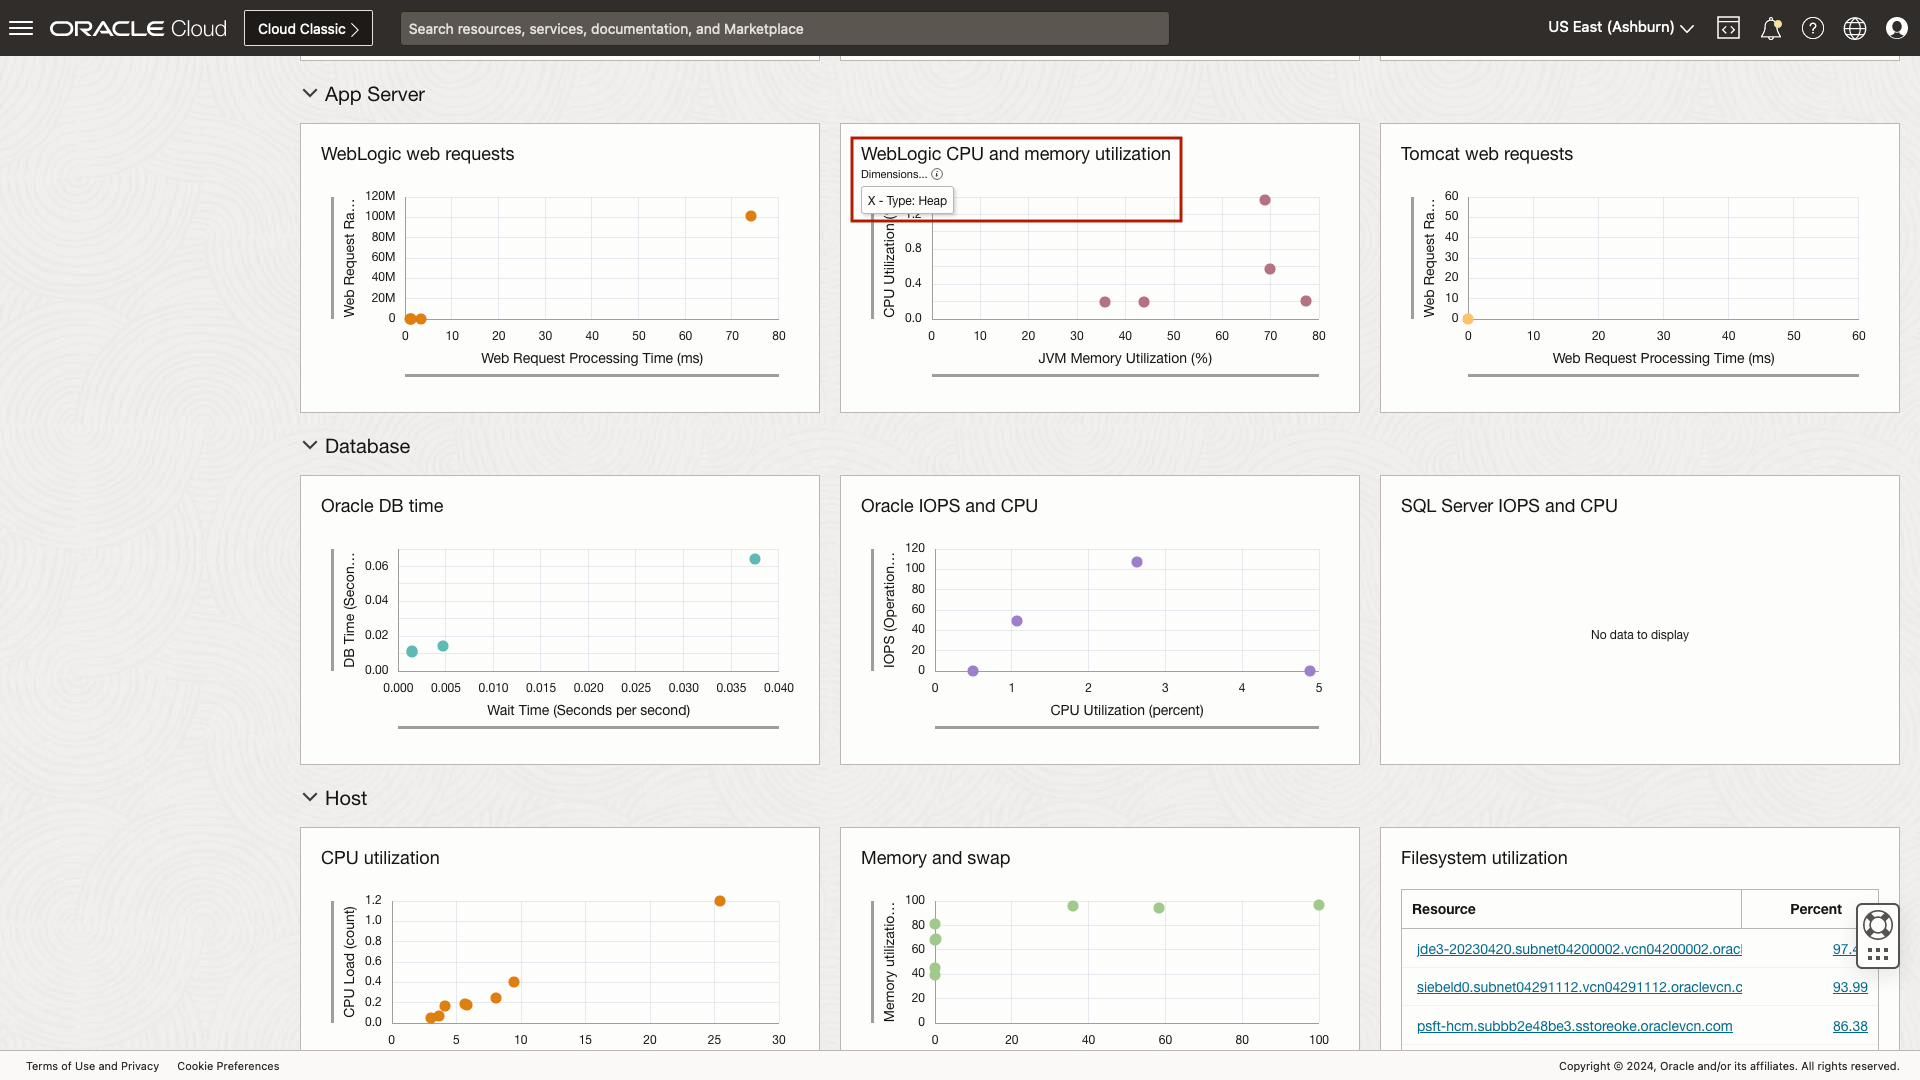
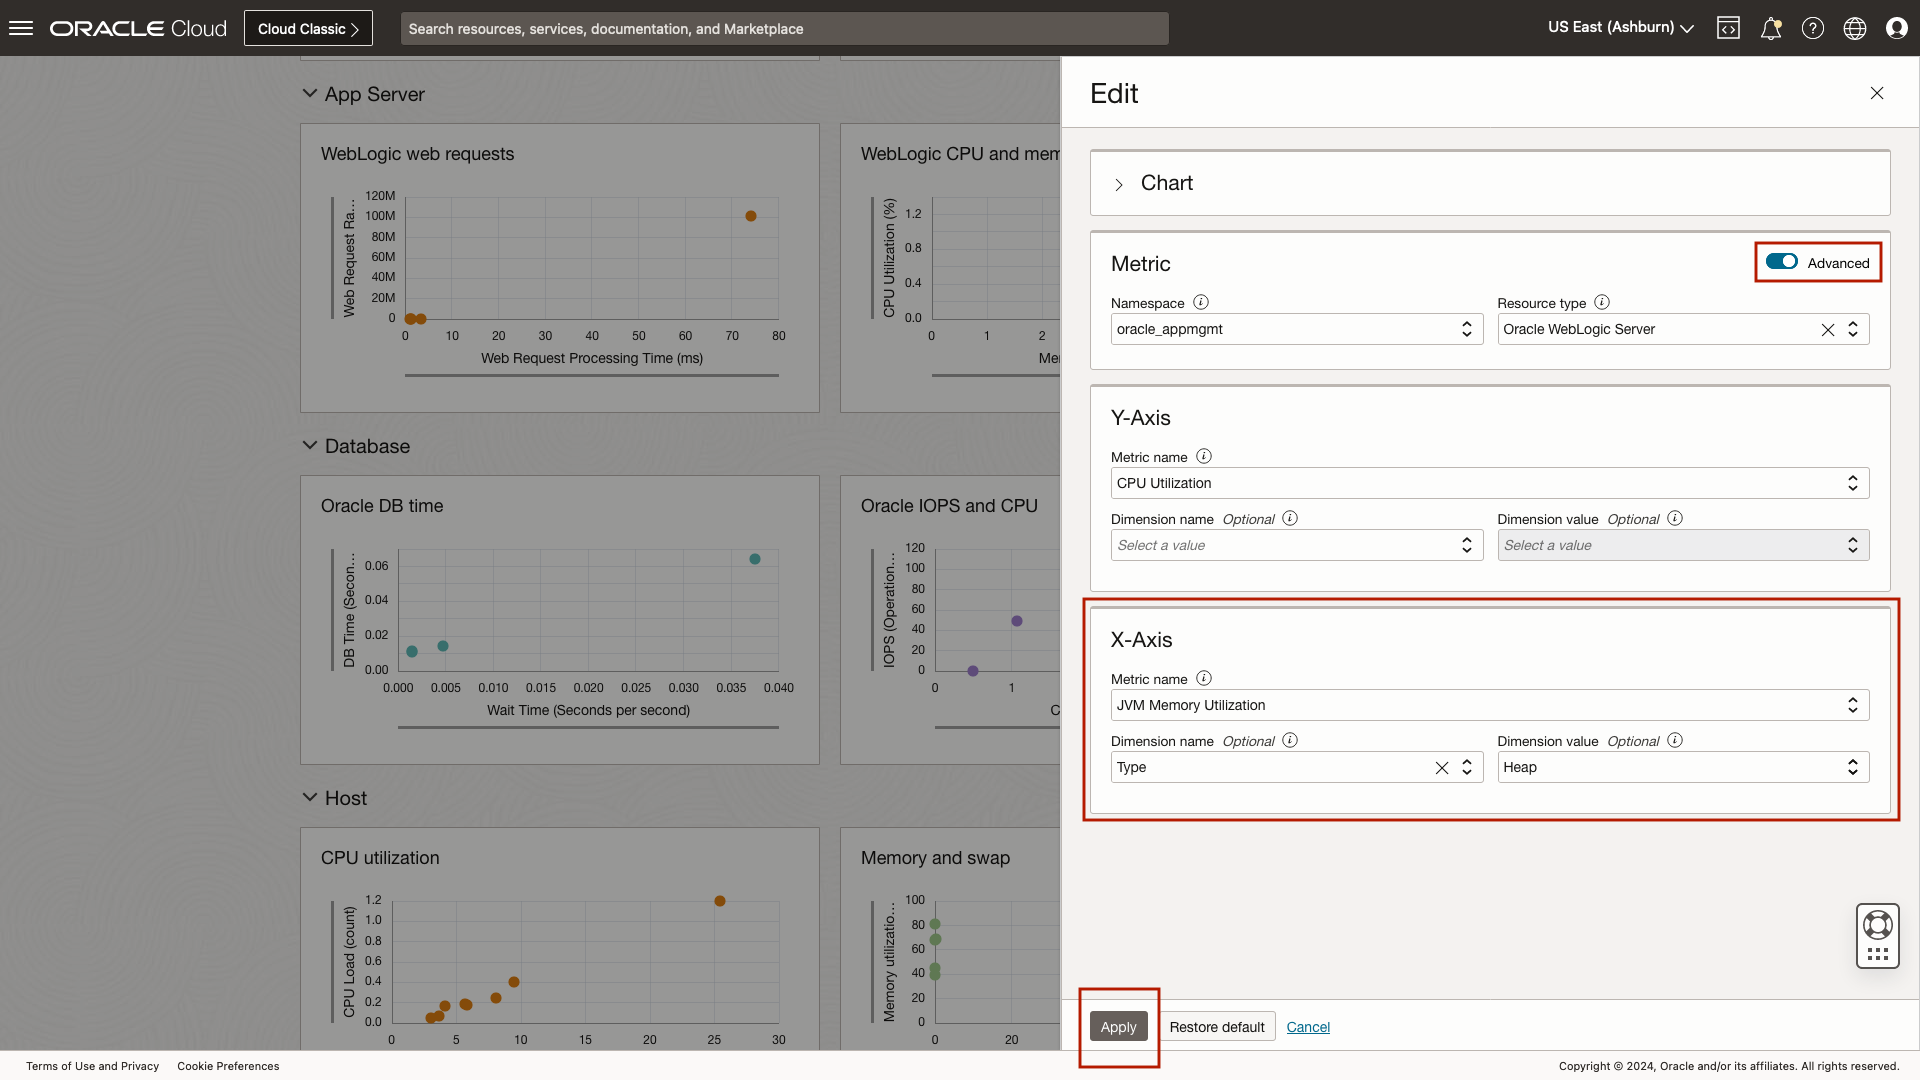
Updates-Marco-Review-06-04-24

diff --git a/oci-stack-monitoring-fundamentals/enterprise-summary/enterprise-summary.md b/oci-stack-monitoring-fundamentals/enterprise-summary/enterprise-summary.md
@@ -84,7 +84,7 @@ Estimated time: 20 minutes
 
  	![Enterprise Summary Alarms chart, highlighting the count of all open alarms](images/3-1-ent-sum.png " ")
 
-	The alarm slide-out provides details of open alarms. These details include the severity, trigger time, resource name, metric name, dimension of the metric in a firing state, **current value**, and alarm name. The current value can help DevOps teams prioritize the order the open alerts should be triaged. The table can be ordered by selecting the column title. 
+	The alarm slide-out provides details of open alarms. These details include the severity, trigger time, resource name, metric name, dimension of the metric in a firing state, **current value**, and alarm name. The current value and severity can help DevOps teams prioritize the order the open alerts should be triaged. The table can be ordered by selecting the column title. 
 
  	Let's return to the Enterprise Summary by clicking **Close**.
 
@@ -118,7 +118,7 @@ Estimated time: 20 minutes
 
  	![Enterprise Summary scatter-plot slide-out, showing memory and swap utilization over the past 90 days](images/4-5-ent-sum.png " ")
 
-2. Tables
+3. Tables
 
  	Located on the right-hand side of the page, **Tables** enable you to quickly identify which hosts or databases have the highest filesystem utilization or tablespace utilization. By default, Tables provide up to the **four** highest utilized or consumed resources of a given metric. The number of rows displayed can be updated from **4 to 10, 20, or all**. Let's review the top **20** most heavily utilized filesystems within the enterprise. Locate the **Filesystem Utilization** chart on the right side under the **Host** tier. Click the pencil icon in the top right of the chart. After clicking the pencil, enable the **Advanced** menu items by updating the **Advanced** flag. Enabling the Advanced menu provides access to optional features of a table or chart. Click **Display records** to change the value of rows displayed from 4 to **20**. With the value updated to 20, click **Apply** in the lower left of the slide-out to return to the Enterprise Summary. 
 
@@ -136,13 +136,17 @@ Estimated time: 20 minutes
 
 	Understanding that each organization and user is unique, and monitoring is a dynamic activity the Enterprise Summary charts, tables, and tier names are customizable to meet the individual needs of the user at any given time. 
 
-	Investigating health and performance issues are easy using the interactive features of the Enterprise Summary. You can easily swap out any performance charts with a tables. This enables you the capability to quickly and easily view necessary metrics when troubleshooting issues. Using the Enterprise Summary, you can review and correlate the performance of the JVM's heap utilization with any other WebLogic metric. From within the **App Server** tier, locate the chart **CPU and Memory Utilization**. Begin by clicking the pencil icon in the top right of the chart to invoke the slide-out. With the slide-out loaded, enable the **Advanced** features. Under the **X-Axis** replace Memory Utilization with **JVM Memory Utilization** and add a dimension name of **Type**, and dimension value of **Heap**. Finally, select **Apply** in the lower left of the slide-out. 
+	Investigating health and performance issues are easy using the interactive features of the Enterprise Summary. You can easily swap out any performance charts with a tables. This enables you the capability to quickly and easily view necessary metrics when troubleshooting issues. Using the Enterprise Summary, you can review and correlate the performance of the JVM's heap utilization with any other WebLogic metric. From within the **App Server** tier, locate the chart **CPU and Memory Utilization**. Begin by clicking the pencil icon in the top right of the chart to invoke the slide-out. 
+	
+	![WebLogic server tier, highlighting the CPU and memory chart pencil edit](images/5-1-ent-sum.png " ")
+	
+	With the slide-out loaded, enable the **Advanced** features. Under the **X-Axis** replace Memory Utilization with **JVM Memory Utilization** and add a dimension name of **Type**, and dimension value of **Heap**. Finally, select **Apply** in the lower left of the slide-out. 
 
- 	![WebLogic server tier, updating the X-axis of the scatter-plot to show JVM heap utilization](images/5-1-ent-sum.png " ")
+ 	![WebLogic server tier, updating the X-axis of the scatter-plot to show JVM heap utilization](images/5-2-ent-sum.png " ")
 
 	You can now see the JVM Heap Memory utilization values across all monitored resources. Using the data provided in the chart we can now correlate the performance of the WebLogic server's heap utilization with the WebLogic server's CPU performance.
 
- 	![WebLogic server tier, CPU and Memory Utilization chart highlighting the dimension of heap](images/5-2-ent-sum.png " ")
+ 	![WebLogic server tier, CPU and Memory Utilization chart highlighting the dimension of heap](images/5-3-ent-sum.png " ")
 
 	If you update or replace charts or tables on the Enterprise Summary, you can save your changes permanently as your default. This can be especially helpful if you need to troubleshoot several different resource types and metrics while investigating an incident.
 
@@ -150,7 +154,7 @@ Estimated time: 20 minutes
 
 	Once you are done reviewing JVM heap utilization, let's reset the Enterprise Summary to the default configuration. To reset the page, locate the **Restore default** link within the menu on the left side of the page. Once clicked, the page will reset to the out-of-the-box configuration. 
 
- 	![Enterprise Summary, highlighting the restore default button](images/5-3-ent-sum.png " ")
+ 	![Enterprise Summary, highlighting the restore default button](images/5-4-ent-sum.png " ")
 
 	You may now **proceed to the next lab**.
 

diff --git a/oci-stack-monitoring-fundamentals/import-oci-services/import-oci-services.md b/oci-stack-monitoring-fundamentals/import-oci-services/import-oci-services.md
@@ -1,8 +1,8 @@
-# Discovery and Promotion in Stack Monitoring
+# Importing OCI Services in to Stack Monitoring
 
 ## Introduction
 
-Stack Monitoring’s Extensibility feature allows for monitoring from other OCI services to be consolidated by importing those resources in to Stack Monitoring. Importing resources into Stack Monitoring allows for the application’s topology to be completed by creating associations between the imported resource and existing Stack Monitoring resources. This reduces troubleshooting time by providing access to all resources and their availability and performance metrics of an entire application stack, including the load balancer, applications servers, databases, and even storage in a single place. Once a resource has been imported, Stack Monitoring will create a home page with availability and performance metrics, and configuration details, and report any open alarms.
+Stack Monitoring’s Extensibility feature allows for monitoring from other OCI services to be consolidated by importing resources in to Stack Monitoring. Importing resources into Stack Monitoring allows for the application’s topology to be completed by creating associations between the imported resource and existing Stack Monitoring resources. This reduces troubleshooting time by providing access to all resources and their availability and performance metrics of an entire application stack, including the load balancer, applications servers, databases, and even storage in a single place. Once a resource has been imported, Stack Monitoring will create a home page with availability and performance metrics, and configuration details, and report any open alarms.
 
 In this lab we will review the process of importing an OCI Load balancer to complete an E-Business Suite application's topology by relating the load balancer to the WebLogic cluster the load balancers services.
 
@@ -72,7 +72,7 @@ Estimated time: 10 minutes
 	
 	![Load balancer home page, highlighting the availability, alarms, and performance metrics](images/3-3-import.png " ")
 	
-	A helpful feature when triaging issues is the link to the OCI resource home page. This link allows you to quickly navigate back to the load balancer's OCI page where you can alter the resource pool or restart a service. In this example using Stack Monitoring's topology, if we witness no activity on our EBS, we could quickly identify the WebLogic cluster that services EBS, then identify the load balancer in front of the cluster. Using the topology, simply click to navigate to the load balancer OCI resource page and update the route configuration. All of this can be done without every typing or searching for a resource, simply follow the troubleshooting workflow.
+	A helpful feature when triaging issues is the link to the OCI service resource home page. This link allows you to quickly navigate back to the load balancer's OCI page where you can alter the resource pool or restart a service. In this example using Stack Monitoring's topology, if we witness no activity on our EBS, we could quickly identify the WebLogic cluster that services EBS, then identify the load balancer in front of the cluster. Using the topology, simply click to navigate to the load balancer OCI service resource page and update the route configuration. All of this can be done without every typing or searching for a resource, simply follow the troubleshooting workflow.
 
 	![Load balancer home page, highlighting the link to the OCI service home page](images/3-3-import.png " ")
 

diff --git a/oci-stack-monitoring-fundamentals/access-env/access-env.md b/oci-stack-monitoring-fundamentals/access-env/access-env.md
@@ -16,8 +16,6 @@ Estimated time: 5 minutes
 
 ## Task 1: Log in to the workshop tenancy
 
-After you successfully log into the workshop tenancy using the View Login Info link located in the upper left of your LiveLabs workshop landing page, you will find the Stack Monitoring Enterprise Summary page using the Oracle Cloud console navigation icon (looks like a hamburger). It is located in the Observability and Management area, and in the Application Performance Monitoring section.
-
 1. Click **View Login info** on **Get Started with Oracle Cloud Stack Monitoring** landing page to log in to the workshop tenancy in the Oracle Cloud.
 
    ![Oracle LiveLabs, Workshop introduction page](images/1-0-liveLabs.png " ")
@@ -44,6 +42,8 @@ After you successfully log into the workshop tenancy using the View Login Info l
    ![Oracle LiveLabs, Workshop introduction page, highlighting view login info link](images/1-5-liveLabs.png " ")
 
 ## Task 2: Access the Enterprise Summary page
+
+After you successfully log into the workshop tenancy using the View Login Info link located in the upper left of your LiveLabs workshop landing page, you will find the Stack Monitoring Enterprise Summary page using the Oracle Cloud console navigation icon (looks like a hamburger). It is located in the Observability and Management area, and in the Application Performance Monitoring section.
 
 1. Navigate to Stack Monitoring
    

diff --git a/oci-stack-monitoring-fundamentals/introduction/introduction.md b/oci-stack-monitoring-fundamentals/introduction/introduction.md
@@ -7,10 +7,10 @@ In this workshop, you will become familiar with Oracle's Stack Monitoring soluti
 In this workshop learn how to:
 * Identify application outages across your enterprise at a glance utilizing Stack Monitoring's **Enterprise Summary**. 
 * Understand how to identify, review and triage any open alarms. 
-* See how you can leverage Stack Monitoring's **tier-organized Key Performance Metrics (KPI's)** to review performance outliers. 
+* See how you can leverage Stack Monitoring's **tier-organized Key Performance Indicators (KPI's)** to review performance outliers. 
 * Learn how to dynamically configure the Enterprise Summary to help identify performance problems. The dynamic Enterprise Summary is very useful when you need to swap a metric chart or table with another to troubleshoot an alarm that is not displayed by default.
 
-In this workshop you will get familiar with:
+In this workshop you will learn how to:
 * Stack Monitoring's **home pages** and how to triage open alarms and view metric performance over time. 
 * Review Stack Monitoring's **UI driven discovery process**. 
 * **Review an open alarm notification**, then review the steps to **configure an alarm**. (**Optional**)
